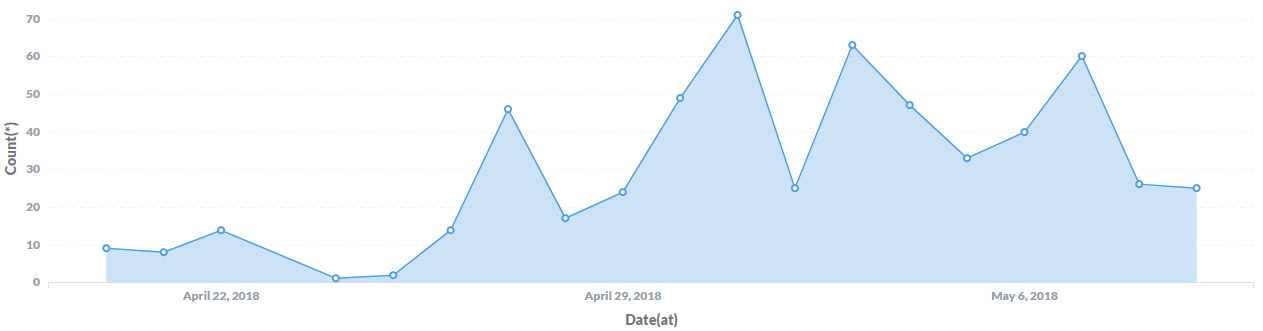
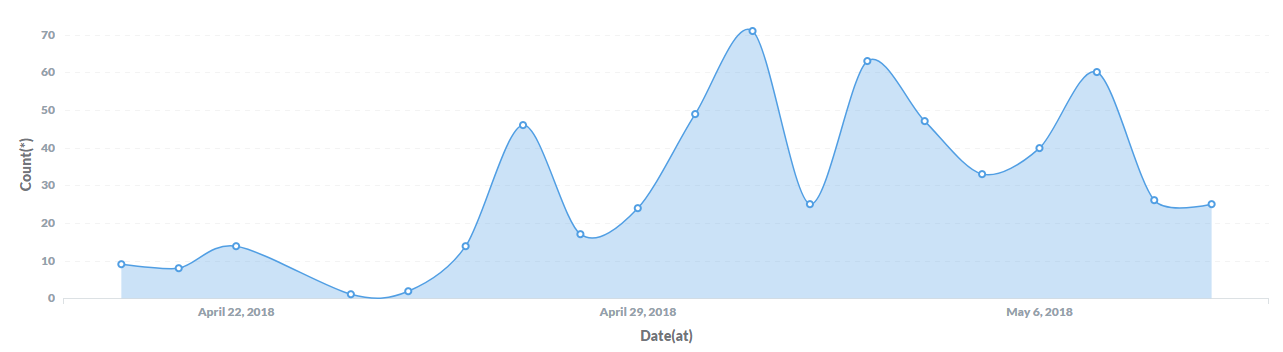
resoconto pdq (quanto bello è il grafico delle build di travis? so smooth)

diff --git a/Esterni/PianoDiQualifica/resoconto.tex b/Esterni/PianoDiQualifica/resoconto.tex
@@ -442,23 +442,22 @@ Misurazione periodo RA: \textbf{77}
 \end{figure}
 
 \newpage
-%TODO
+
 \textbf{MPS010 Media build Travis per settimana}\\
-Misurazione periodo RA: \textbf{?}
+Misurazione periodo RA: \textbf{63}
 \begin{figure}[H]
 	\centering
-	\includegraphics[width=1\linewidth]{RQ/MPS010}
+	\includegraphics[width=1\linewidth]{RA/MPS010}
 	\caption{MPS010}
 	\label{fig:processi}
 \end{figure}
-Nel periodo centrale il numero di build è stato minore del resto perché ci si è focalizzati sulla progettazione dell'architettura del prodotto e della creazione dei corrispettivi diagrammi UML.\\
 
-%TODO
+
 \textbf{MPS011 Percentuale build superate}\\
-Misurazione periodo RA: \textbf{?\%}
+Misurazione periodo RA: \textbf{77\%}
 \begin{figure}[H]
 	\centering
-	\includegraphics[width=1\linewidth]{RQ/MPS011}
+	\includegraphics[width=1\linewidth]{RA/MPS011}
 	\caption{MPS011}
 	\label{fig:processi}
 \end{figure}
@@ -466,7 +465,7 @@ Misurazione periodo RA: \textbf{?\%}
 \subsubsection{Maturità processi ISO 15504}
 \begin{figure}[H]
 	\centering
-	\includegraphics[width=0.7\linewidth]{RA/Processi}
+	\includegraphics[width=0.9\linewidth]{RA/Processi}
 	\caption{Maturità processi}
 	\label{fig:processi}
 \end{figure}
